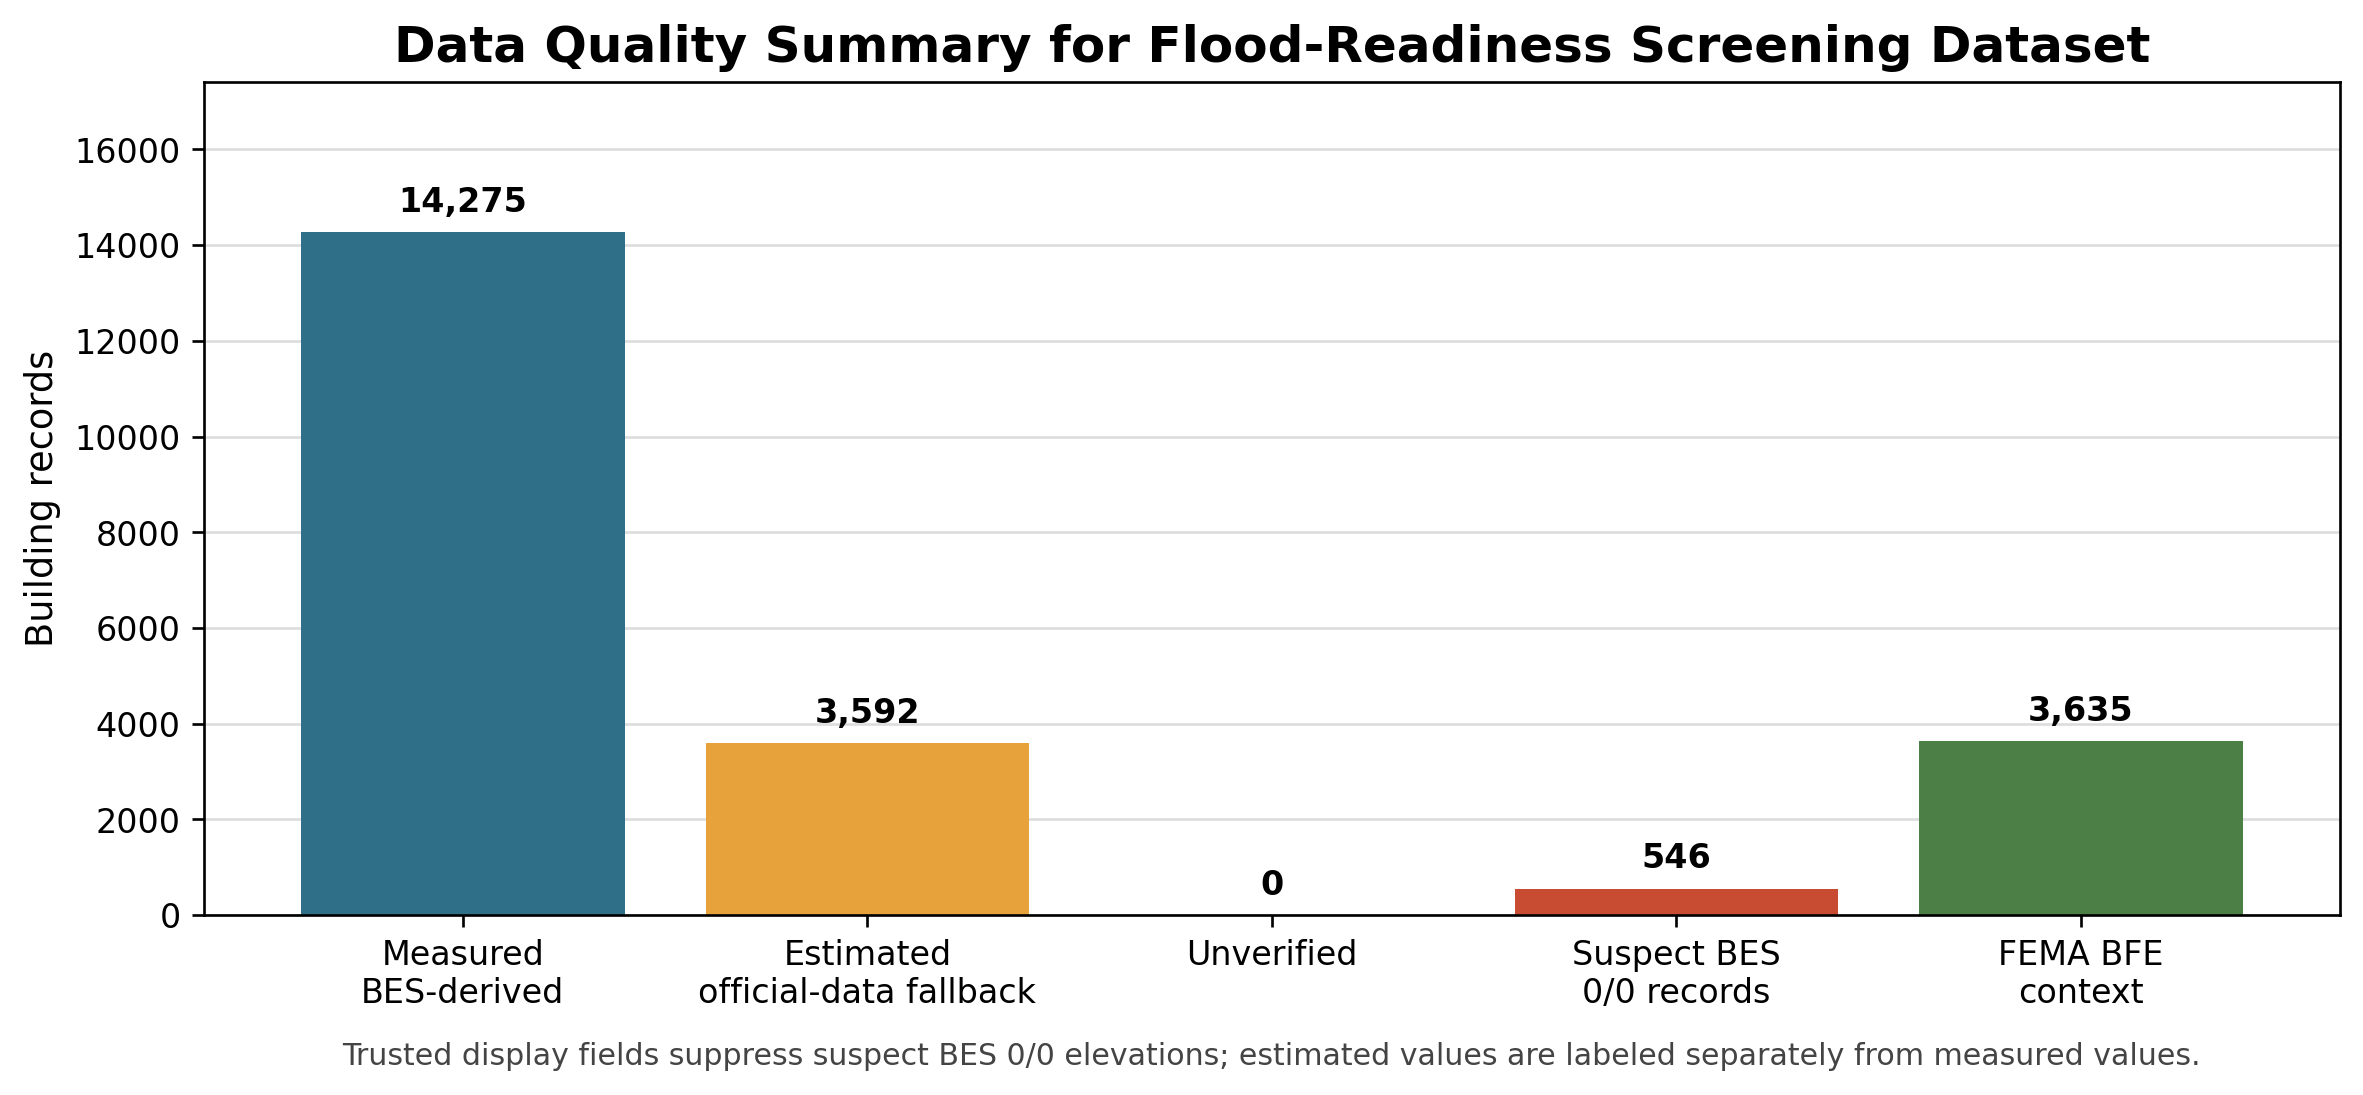
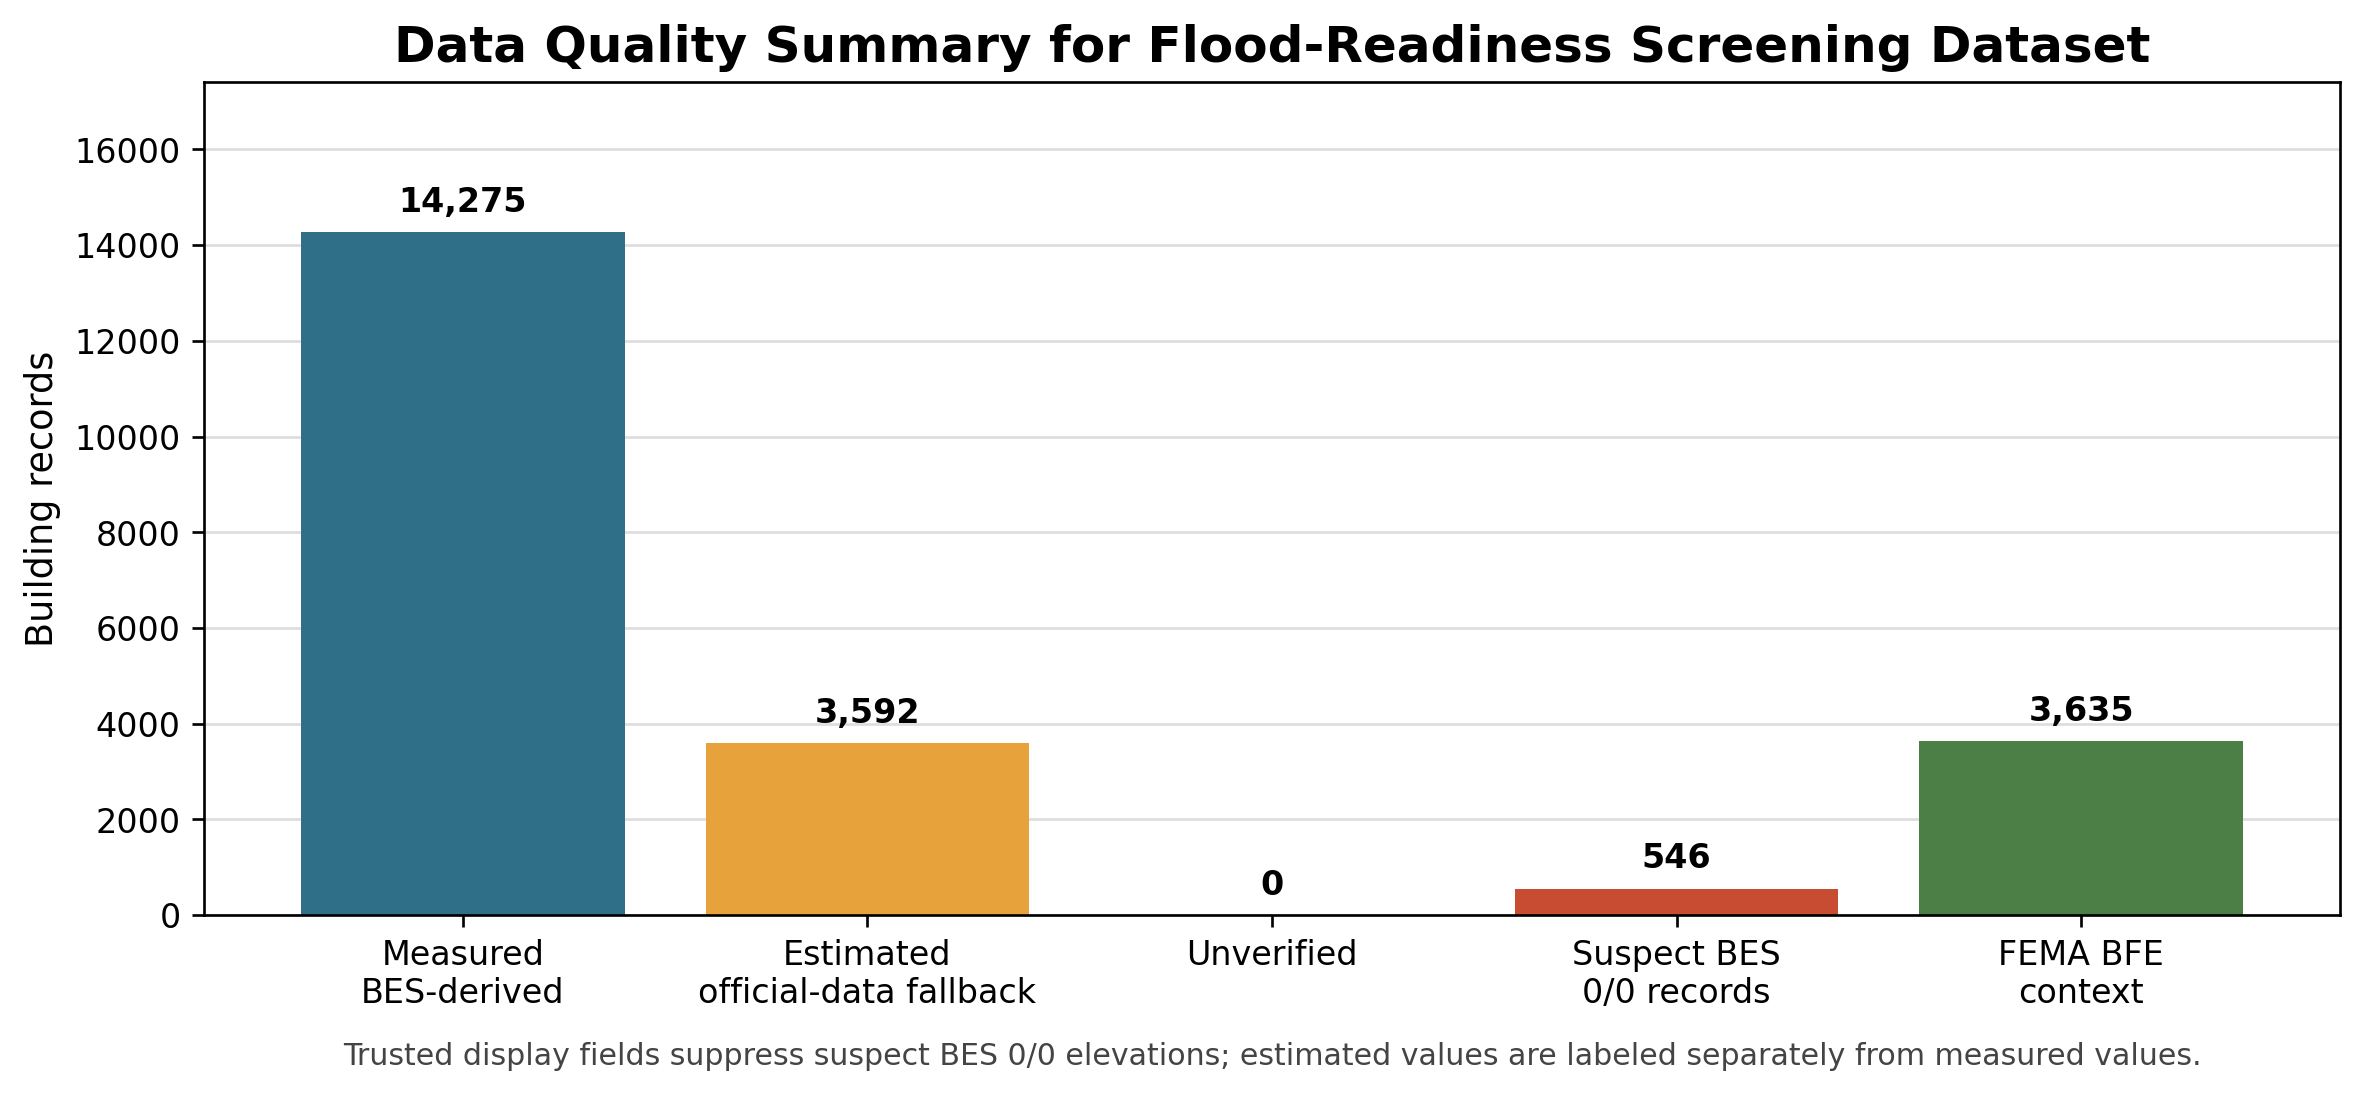
Improve figure pipeline reproducibility

diff --git a/src/process_data_and_generate_figures.py b/src/process_data_and_generate_figures.py
@@ -23,7 +23,8 @@ FIGURE_DIR = ROOT / "output" / "figures"
 DATA_DIR = ROOT / "data" / "summary"
 
 CENSUS_REPORTER_GEO_URL = "https://api.censusreporter.org/1.0/geo/show/tiger2024"
-CENSUS_REPORTER_DATA_URL = "https://api.censusreporter.org/1.0/data/show/latest"
+CENSUS_REPORTER_DATA_URL = "https://api.censusreporter.org/1.0/data/show/acs2024_5yr"
+ACS_RELEASE_ID = "acs2024_5yr"
 TRACT_PARENT = "05000US36047"
 ACS_TABLES = [
     "B01003",  # Total population
@@ -50,7 +51,11 @@ VULNERABLE_STATUSES = {
 def request_json(url: str, params: dict[str, Any]) -> dict[str, Any]:
     response = requests.get(url, params=params, timeout=90)
     response.raise_for_status()
-    return response.json()
+    try:
+        return response.json()
+    except ValueError as exc:
+        preview = response.text[:500].replace("\n", " ")
+        raise RuntimeError(f"Expected JSON from {response.url}; got: {preview}") from exc
 
 
 def iter_geometry_points(geometry: dict[str, Any] | None) -> list[list[float]]:
@@ -202,7 +207,9 @@ def load_census_tracts() -> list[dict[str, Any]]:
 
 
 def load_acs(geoids: list[str]) -> dict[str, Any]:
-    # Census Reporter comfortably handles this geoid list in one request.
+    # Use Census Reporter's fixed ACS 2024 release. The official Census API can
+    # require a key from some networks; this endpoint keeps the repo reproducible
+    # without a private credential while still pinning the ACS vintage.
     payload = request_json(
         CENSUS_REPORTER_DATA_URL,
         {
@@ -210,6 +217,12 @@ def load_acs(geoids: list[str]) -> dict[str, Any]:
             "geo_ids": ",".join(geoids),
         },
     )
+    release_id = payload.get("release", {}).get("id")
+    if release_id != ACS_RELEASE_ID:
+        raise ValueError(f"Expected Census Reporter release {ACS_RELEASE_ID}, got {release_id!r}")
+    missing = sorted(set(geoids) - set(payload.get("data", {})))
+    if missing:
+        raise ValueError(f"ACS 2024 response did not include {len(missing)} requested tracts: {missing[:5]}")
     return payload
 
 
@@ -594,6 +607,57 @@ def plot_data_methods(metadata: dict[str, Any]) -> None:
     plt.close(fig)
 
 
+def validate_input_dataset(buildings: list[dict[str, Any]], metadata: dict[str, Any]) -> None:
+    metadata_qa = metadata.get("qa_counts", {})
+    feature_count = len(buildings)
+    confidence_counts = Counter(
+        feature["properties"].get("elevation_confidence")
+        for feature in buildings
+    )
+    suspect_zero_count = sum(
+        1
+        for feature in buildings
+        if "suspect_zero_elevation" in (feature["properties"].get("data_quality_flags") or [])
+    )
+    fema_matched_count = sum(
+        1
+        for feature in buildings
+        if feature["properties"].get("flood_zone") is not None
+    )
+    fema_bfe_count = sum(
+        1
+        for feature in buildings
+        if feature["properties"].get("base_flood_elevation_ft") is not None
+    )
+    trusted_suspect_zero = [
+        feature["properties"].get("bin") or feature["properties"].get("bbl")
+        for feature in buildings
+        if "suspect_zero_elevation" in (feature["properties"].get("data_quality_flags") or [])
+        and feature["properties"].get("elevation_confidence") == "measured"
+    ]
+    expected = {
+        "feature_count": feature_count,
+        "measured_count": confidence_counts["measured"],
+        "estimated_count": confidence_counts["estimated"],
+        "unverified_count": confidence_counts["unverified"],
+        "suspect_zero_count": suspect_zero_count,
+        "fema_matched_count": fema_matched_count,
+        "fema_bfe_count": fema_bfe_count,
+    }
+    mismatches = {
+        key: {"metadata": metadata_qa.get(key), "computed": value}
+        for key, value in expected.items()
+        if metadata_qa.get(key) != value
+    }
+    if mismatches:
+        raise ValueError(f"Metadata QA counts do not match building features: {mismatches}")
+    if trusted_suspect_zero:
+        raise ValueError(
+            "Suspect BES 0/0 records are incorrectly labeled measured: "
+            f"{trusted_suspect_zero[:10]}"
+        )
+
+
 def aggregate_context(rows: list[dict[str, Any]], tiers: list[dict[str, Any]], metadata: dict[str, Any]) -> dict[str, Any]:
     population = sum(row["population"] or 0 for row in rows)
     poverty_count = sum(row["poverty_count"] or 0 for row in rows)
@@ -646,7 +710,7 @@ def aggregate_context(rows: list[dict[str, Any]], tiers: list[dict[str, Any]], m
         "income_tiers": tiers,
         "dataset_qa": metadata["qa_counts"],
         "source_notes": {
-            "acs": "ACS 2024 5-year tract estimates accessed through Census Reporter API.",
+            "acs": "ACS 2024 5-year tract estimates accessed through Census Reporter release acs2024_5yr; tract geometry accessed through Census Reporter TIGER 2024.",
             "flood_dataset": "App screening dataset built from NYC BES, NYC Building Footprints, and FEMA NFHL.",
             "screening_caveat": "Building-level results are presentation screening indicators, not certified engineering, insurance, or code-compliance determinations.",
         },
@@ -659,6 +723,7 @@ def main() -> None:
 
     buildings = json.loads(BUILDINGS_PATH.read_text(encoding="utf-8"))["features"]
     metadata = json.loads(METADATA_PATH.read_text(encoding="utf-8"))
+    validate_input_dataset(buildings, metadata)
     tracts = load_census_tracts()
     acs = load_acs([tract["properties"]["geoid"] for tract in tracts])
     assignments = assign_buildings_to_tracts(buildings, tracts)

diff --git a/README.md b/README.md
@@ -4,7 +4,7 @@ Course: Anthropology 3135: American Urban Experience
 Department of Anthropology, Brooklyn College  
 Professor: Christa Paterline  
 Student: Mark Fartushniak  
-Date: May 19, 2026
+Date: May 20, 2026
 
 ## Project
 
@@ -31,7 +31,8 @@ output/
 - NYC Building Elevation and Subgrade
 - NYC Building Footprints
 - FEMA National Flood Hazard Layer
-- U.S. Census Bureau ACS 2024 5-year tract estimates, accessed through Census Reporter
+- U.S. Census Bureau ACS 2024 5-year tract estimates, accessed through Census Reporter release `acs2024_5yr`
+- Census Reporter TIGER 2024 tract geometry
 
 ## Reproducing the Figures
 
@@ -47,4 +48,29 @@ Run the processing and figure-generation script:
 python3 src/process_data_and_generate_figures.py
 ```
 
-The script reads `data/processed/coney-island-buildings.geojson`, fetches ACS tract geometry and demographic context from Census Reporter, and writes updated summary files into `data/summary/` and figures into `output/figures/`.
+The script reads `data/processed/coney-island-buildings.geojson`, fetches TIGER 2024 tract geometry from Census Reporter, fetches fixed ACS 2024 demographic context from Census Reporter release `acs2024_5yr`, and writes updated summary files into `data/summary/` and figures into `output/figures/`.
+
+The generated files are:
+
+- `output/figures/fig_income_vs_vulnerability_maps.png`
+- `output/figures/fig_income_tier_vulnerability.png`
+- `output/figures/fig_data_methods_summary.png`
+- `data/summary/tract_flood_demographic_summary.csv`
+- `data/summary/parts_bcd_summary.json`
+
+## Trust and Limitations
+
+This repository is sufficient to regenerate the paper's visualization figures from the included building-level screening GeoJSON and live ACS 2024 tract data.
+
+It does not rebuild the building-level screening GeoJSON from raw NYC and FEMA services. The included GeoJSON should be read as a presentation-screening dataset, not an engineering certification, insurance determination, or flood-code compliance finding.
+
+The processing script validates the bundled building data before generating figures. It fails if:
+
+- feature counts differ from the metadata,
+- measured/estimated/unverified counts differ from the metadata,
+- FEMA match or BFE-context counts differ from the metadata,
+- suspect BES `0/0` records are labeled as trusted measured elevations.
+
+The pipeline intentionally separates measured and estimated first-floor values. Estimates are useful for public presentation and comparison, but they should not be presented as surveyed elevation facts.
+
+The validation check found no suspect BES `0/0` records treated as measured. A small number of BES-measured records remain effectively at grade because `z_floor` and `z_grade` are nearly equal and the BES note reports a successful measurement; these are retained as at-grade screening records, not exact elevation certificates.